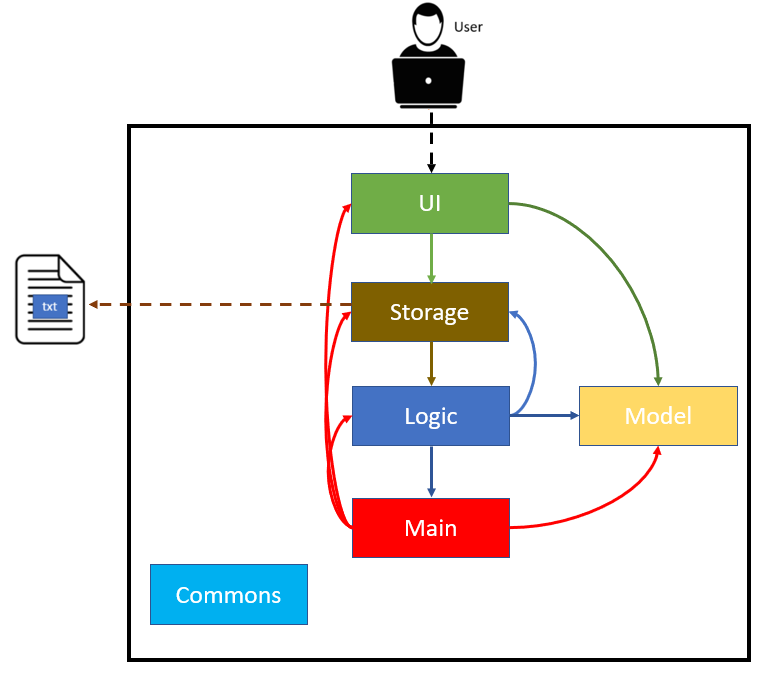
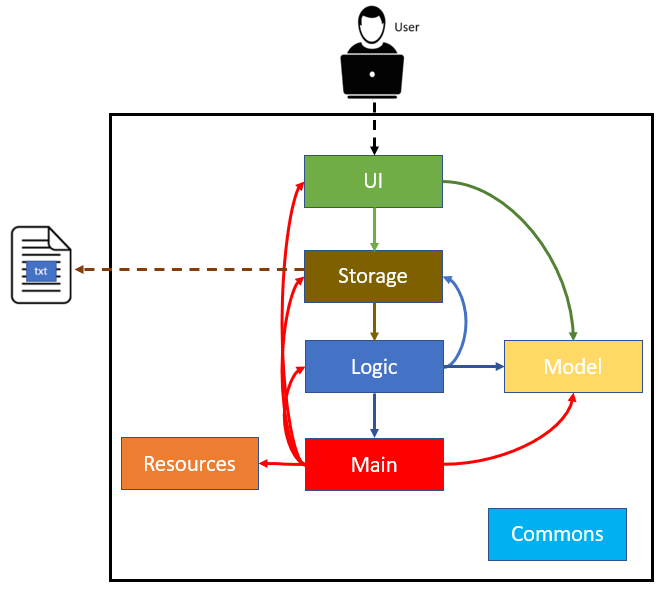
Added sequence diagram

Changed region(s): [[0.0, 0.0, 0.9895, 1.0], [0.7496, 0.3339, 0.7796, 0.3642]]

diff --git a/src/main/java/storage/ReadFiles.java b/src/main/java/storage/ReadFiles.java
@@ -30,14 +30,14 @@ public class ReadFiles extends Storage {
         return canteens;
     }
 
-    private static void readFiles(BufferedReader reader) throws IOException {
+    private void readFiles(BufferedReader reader) throws IOException {
         String line;
         if (new File(DEFAULT_STORAGE_FILEPATH).exists()) {
             Ui.showDirectoryFound();
             Scanner sc = new Scanner(new File(DEFAULT_STORAGE_FILEPATH));
             while (sc.hasNextLine()) {
                 line = sc.nextLine();
-                readFunc(line);
+                filterLine(line);
             }
         } else {
             File d = new File(DEFAULT_STORAGE_DIRECTORY);
@@ -47,13 +47,13 @@ public class ReadFiles extends Storage {
             PrintWriter pw = new PrintWriter(DEFAULT_STORAGE_FILEPATH);
             while ((line = reader.readLine()) != null) {
                 pw.println(line);
-                readFunc(line);
+                filterLine(line);
             }
             pw.close();
         }
     }
 
-    private static void readFunc(String line) {
+    private void filterLine(String line) {
         Canteen canteen;
         Store store;
         String[] storedLine = line.split("<>");
@@ -65,7 +65,7 @@ public class ReadFiles extends Storage {
             break;
         case 2:
             //check if canteen exist
-            canteen = findCanteen(storedLine[0]);
+            canteen = findDuplicateCanteen(storedLine[0]);
             //add new store to canteen
             store = new Store(storedLine[1]);
             canteen.getStores().add(store);
@@ -73,16 +73,16 @@ public class ReadFiles extends Storage {
         case 3:
             String[] reviewDetails = storedLine[2].split("//");
             //check if canteen exist
-            canteen = findCanteen(storedLine[0]);
+            canteen = findDuplicateCanteen(storedLine[0]);
             //check if store exist
-            store = findStore(canteen, storedLine[1]);
+            store = findDuplicateStore(canteen, storedLine[1]);
             store.addReview(new Review(reviewDetails[0], Double.parseDouble(reviewDetails[1]), reviewDetails[2]));
             break;
         case 4:
             //check if canteen exist
-            canteen = findCanteen(storedLine[0]);
+            canteen = findDuplicateCanteen(storedLine[0]);
             //check if store exist
-            store = findStore(canteen, storedLine[1]);
+            store = findDuplicateStore(canteen, storedLine[1]);
             store.addMenu(new Menu(storedLine[2], Double.parseDouble(storedLine[3])));
             break;
         default:
@@ -90,7 +90,7 @@ public class ReadFiles extends Storage {
         }
     }
 
-    private static Store findStore(Canteen canteen, String storeName) {
+    private Store findDuplicateStore(Canteen canteen, String storeName) {
         Store store = null;
         boolean hasStore = false;
 
@@ -109,7 +109,7 @@ public class ReadFiles extends Storage {
         return store;
     }
 
-    private static Canteen findCanteen(String canteenName) {
+    private Canteen findDuplicateCanteen(String canteenName) {
         Canteen canteen = null;
         boolean hasCanteen = false;
 

diff --git a/src/main/java/command/DeleteCanteenCommand.java b/src/main/java/command/DeleteCanteenCommand.java
@@ -3,7 +3,6 @@ package command;
 import canteens.Canteen;
 import exceptions.DukeExceptions;
 import parser.Parser;
-import storage.Storage;
 import storage.UpdateFile;
 import ui.Ui;
 
@@ -39,7 +38,7 @@ public class DeleteCanteenCommand extends Command {
             assert canteenIndex >= 0 && canteenIndex < canteens.size() : "DeleteCanteenCommand canteenIndex invalid";
             Canteen removedCanteen = canteens.remove(canteenIndex);
             ui.showCanteenDeleted(removedCanteen, canteens.size());
-            UpdateFile.deleteObjInFile(new FileWriter(savePath), canteens);
+            UpdateFile.deleteAndUpdateFile(new FileWriter(savePath), canteens);
         } else {
             System.out.println(LINESPACING);
             System.out.println("There are no canteens left!");

diff --git a/src/main/java/storage/UpdateFile.java b/src/main/java/storage/UpdateFile.java
@@ -12,12 +12,13 @@ import java.util.ArrayList;
 public class UpdateFile extends Storage {
 
     private static String separator = "<>";
+    private static ArrayList<Canteen> canteens;
 
     public UpdateFile(){
 
     }
 
-    public static void deleteObjInFile(FileWriter fw, ArrayList<Canteen> canteens) throws IOException {
+    public static void deleteAndUpdateFile(FileWriter fw, ArrayList<Canteen> canteens) throws IOException {
 
         for (Canteen canteen :canteens) {
             //print canteen
@@ -42,6 +43,6 @@ public class UpdateFile extends Storage {
 
     @Override
     public ArrayList<Canteen> execute() throws IOException {
-        return null;
+        return canteens;
     }
 }

diff --git a/src/main/java/command/DeleteReviewCommand.java b/src/main/java/command/DeleteReviewCommand.java
@@ -60,7 +60,7 @@ public class DeleteReviewCommand extends Command {
             Store store = currentCanteen.getStore(currentStoreIndex);
             store.deleteReview(reviewNumber);
             ui.reviewDeleted();
-            UpdateFile.deleteObjInFile(new FileWriter(Storage.DEFAULT_STORAGE_FILEPATH), canteens);
+            UpdateFile.deleteAndUpdateFile(new FileWriter(Storage.DEFAULT_STORAGE_FILEPATH), canteens);
         } else {
             System.out.println(LINESPACING);
             System.out.println("There are no canteens for you to delete reviews for any stores!");

diff --git a/src/main/java/command/DeleteStoreCommand.java b/src/main/java/command/DeleteStoreCommand.java
@@ -52,6 +52,6 @@ public class DeleteStoreCommand extends Command {
         String storeName = currentCanteen.getStore(storeIndex).getStoreName();
         currentCanteen.deleteStore(storeIndex);
         ui.showDeleteStore(storeName);
-        UpdateFile.deleteObjInFile(new FileWriter(Storage.DEFAULT_STORAGE_FILEPATH),canteens);
+        UpdateFile.deleteAndUpdateFile(new FileWriter(Storage.DEFAULT_STORAGE_FILEPATH),canteens);
     }
 }

diff --git a/src/main/java/command/DeleteMenuCommand.java b/src/main/java/command/DeleteMenuCommand.java
@@ -76,7 +76,7 @@ public class DeleteMenuCommand extends Command {
         String menuName = store.getMenus().get(menuNumber).getItemName();
         store.deleteMenu(menuNumber);
         ui.menuDeleted(menuName);
-        UpdateFile.deleteObjInFile(new FileWriter(Storage.DEFAULT_STORAGE_FILEPATH),canteens);
+        UpdateFile.deleteAndUpdateFile(new FileWriter(Storage.DEFAULT_STORAGE_FILEPATH),canteens);
     }
 
 }

diff --git a/src/main/java/storage/WriteToFile.java b/src/main/java/storage/WriteToFile.java
@@ -10,6 +10,7 @@ import java.util.ArrayList;
 public class WriteToFile extends Storage {
 
     private static String separator = "<>";
+    private static ArrayList<Canteen> canteens;
 
     public WriteToFile(){
 
@@ -42,6 +43,6 @@ public class WriteToFile extends Storage {
 
     @Override
     public ArrayList<Canteen> execute() throws IOException {
-        return null;
+        return canteens;
     }
 }

diff --git a/src/main/java/exceptions/DukeExceptions.java b/src/main/java/exceptions/DukeExceptions.java
@@ -1,7 +1,6 @@
 package exceptions;
 
 public class DukeExceptions extends Exception {
-    // Exception when invalid instructions are provided
 
     private String exceptionMessage;
 

diff --git a/src/main/java/storage/Storage.java b/src/main/java/storage/Storage.java
@@ -9,7 +9,6 @@ public abstract class Storage {
 
     public static final String DEFAULT_STORAGE_FILEPATH = "data/DoNotEdit.txt";
 
-
     public Storage() {
     }
 

diff --git a/docs/DeveloperGuide.md b/docs/DeveloperGuide.md
@@ -38,13 +38,16 @@ password is `Password`. When run as admin the user is able to `add` or `remove` 
 functions allows the app to be moderated and maintained by the person in charge. 
 
 ### Architecture
-![Architecture Diagram](./img/architecture%20diagram.png)
+![architecture diagram](./img/architecture%20diagram.png)
 
 The Architecture Diagram shown above explains the high-level design of NusFoodReviews Application. The following is a brief overview of each component.
 
 `Main` is responsible for,
 + At app launch: Initializes the components in the correct sequence, and connects them up with each other.
 + At shut down: Shuts down the components and invokes cleanup methods where necessary.
+
+`Resources` contains the bundled resource(database file) of the application. When user run the application for the first time, 
+it will read from this resource and copy it to the local machine. Return user will not need to read from this resource anymore. 
 
 `Commons` represents a collection of classes used by multiple other components.
   
@@ -63,6 +66,17 @@ The rest of the App consists of four components.
 ### Model-Component
 
 ### Storage-Component
+![Storage Class Diagram](./img/storage CD.PNG)
+
+The `Storage` component,
+* For new user, will first create a new directory and text file.
+* Next, will load the data from resource and store it into the newly created text file.
+* At the same time, it will also load into the in-app data.
+* If it is an existing user, it will only loads data from the text file into in-App data.  
+
+
+
+
 
 ##Implementation
 For public users, the list of commands is shown below:
